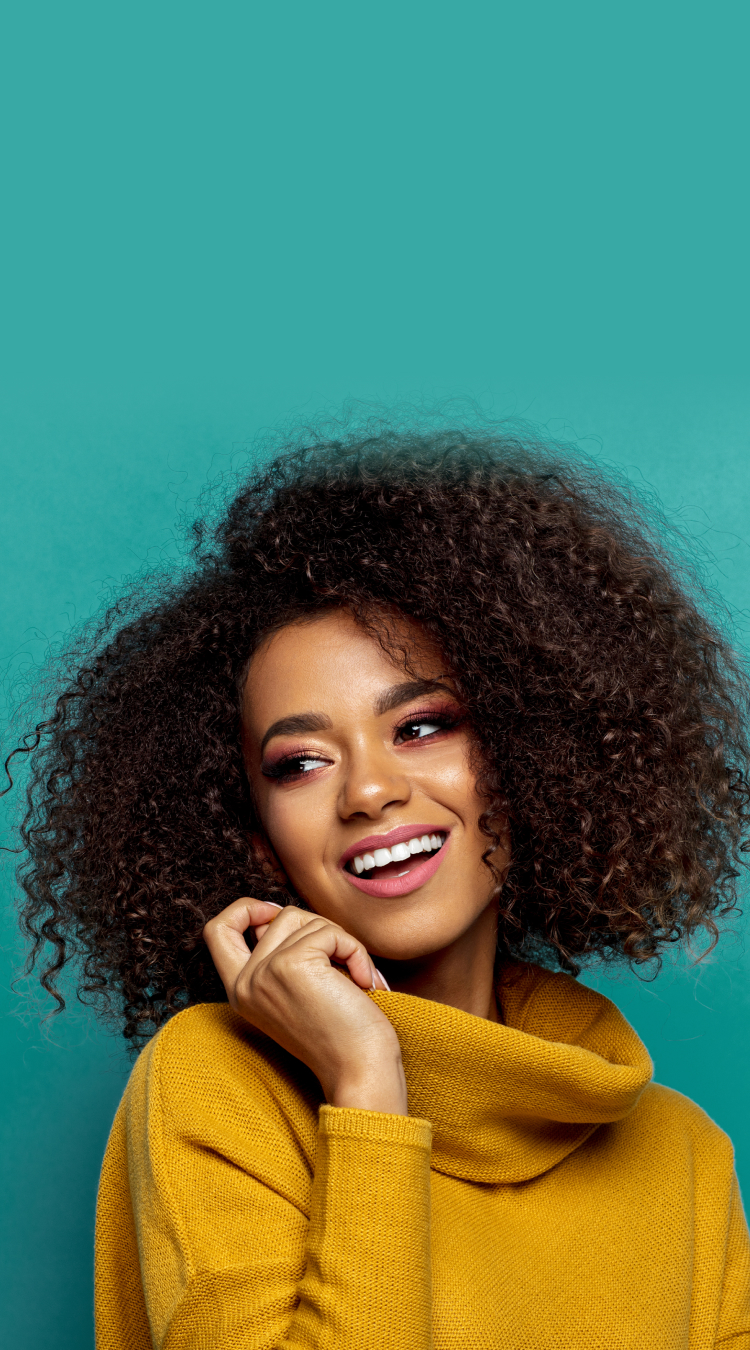
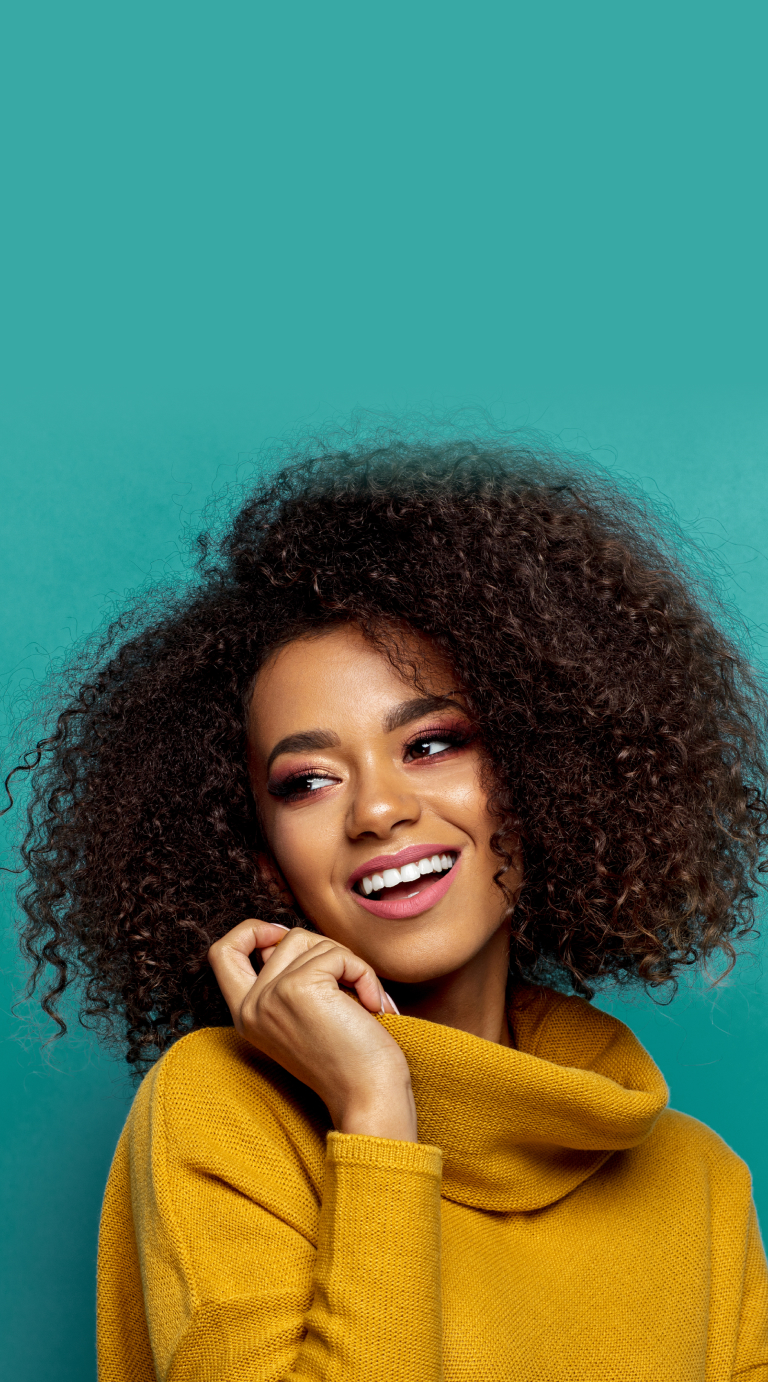
setup image sizes and fields for hero slider

diff --git a/css/app.css b/css/app.css
@@ -1258,16 +1258,16 @@ select{
   margin-bottom:calc(0.5rem * var(--tw-space-y-reverse))
 }
 
-.space-x-4 > :not([hidden]) ~ :not([hidden]){
-  --tw-space-x-reverse:0;
-  margin-right:calc(1rem * var(--tw-space-x-reverse));
-  margin-left:calc(1rem * calc(1 - var(--tw-space-x-reverse)))
-}
-
 .space-y-4 > :not([hidden]) ~ :not([hidden]){
   --tw-space-y-reverse:0;
   margin-top:calc(1rem * calc(1 - var(--tw-space-y-reverse)));
   margin-bottom:calc(1rem * var(--tw-space-y-reverse))
+}
+
+.space-x-4 > :not([hidden]) ~ :not([hidden]){
+  --tw-space-x-reverse:0;
+  margin-right:calc(1rem * var(--tw-space-x-reverse));
+  margin-left:calc(1rem * calc(1 - var(--tw-space-x-reverse)))
 }
 
 .space-x-2 > :not([hidden]) ~ :not([hidden]){
@@ -1405,6 +1405,11 @@ select{
 .bg-\[\#52D3E5\]{
   --tw-bg-opacity:1;
   background-color:rgb(82 211 229 / var(--tw-bg-opacity))
+}
+
+.bg-red-orange{
+  --tw-bg-opacity:1;
+  background-color:rgb(255 77 0 / var(--tw-bg-opacity))
 }
 
 .bg-watermark{
@@ -2182,11 +2187,6 @@ h2{
   z-index:0
 }
 
-.before\:mr-4::before{
-  content:var(--tw-content);
-  margin-right:1rem
-}
-
 .before\:mr-2::before{
   content:var(--tw-content);
   margin-right:0.5rem
@@ -2247,11 +2247,6 @@ h2{
 .before\:bg-no-repeat::before{
   content:var(--tw-content);
   background-repeat:no-repeat
-}
-
-.before\:font-bold::before{
-  content:var(--tw-content);
-  font-weight:700
 }
 
 .before\:text-secondary::before{

diff --git a/css/editor-style.css b/css/editor-style.css
@@ -615,16 +615,16 @@
   margin-bottom:calc(0.5rem * var(--tw-space-y-reverse))
 }
 
-.space-x-4 > :not([hidden]) ~ :not([hidden]){
-  --tw-space-x-reverse:0;
-  margin-right:calc(1rem * var(--tw-space-x-reverse));
-  margin-left:calc(1rem * calc(1 - var(--tw-space-x-reverse)))
-}
-
 .space-y-4 > :not([hidden]) ~ :not([hidden]){
   --tw-space-y-reverse:0;
   margin-top:calc(1rem * calc(1 - var(--tw-space-y-reverse)));
   margin-bottom:calc(1rem * var(--tw-space-y-reverse))
+}
+
+.space-x-4 > :not([hidden]) ~ :not([hidden]){
+  --tw-space-x-reverse:0;
+  margin-right:calc(1rem * var(--tw-space-x-reverse));
+  margin-left:calc(1rem * calc(1 - var(--tw-space-x-reverse)))
 }
 
 .space-x-2 > :not([hidden]) ~ :not([hidden]){
@@ -762,6 +762,11 @@
 .bg-\[\#52D3E5\]{
   --tw-bg-opacity:1;
   background-color:rgb(82 211 229 / var(--tw-bg-opacity))
+}
+
+.bg-red-orange{
+  --tw-bg-opacity:1;
+  background-color:rgb(255 77 0 / var(--tw-bg-opacity))
 }
 
 .bg-watermark{
@@ -1616,11 +1621,6 @@ body{
   z-index:0
 }
 
-.before\:mr-4::before{
-  content:var(--tw-content);
-  margin-right:1rem
-}
-
 .before\:mr-2::before{
   content:var(--tw-content);
   margin-right:0.5rem
@@ -1681,11 +1681,6 @@ body{
 .before\:bg-no-repeat::before{
   content:var(--tw-content);
   background-repeat:no-repeat
-}
-
-.before\:font-bold::before{
-  content:var(--tw-content);
-  font-weight:700
 }
 
 .before\:text-secondary::before{

diff --git a/template-parts/blocks/page-hero-slider.php b/template-parts/blocks/page-hero-slider.php
@@ -3,6 +3,7 @@
  * Page Hero Slider
  */
 ?>
+<?php if( have_rows('slides') ): ?>
 <div class="glide hero-slider z-10">
 	<div class="absolute w-full h-full top-0 left-0 right-0 mx-auto">
 		<div class="container relative mx-auto h-full">
@@ -15,7 +16,9 @@
 			</div>
 			<div class="absolute left-0 right-0 mx-auto w-full flex lg:hidden items-center justify-center bottom-12">
 				<div class="glide__bullets flex gap-4 z-20" data-glide-el="controls[nav]">
-					<button class="glide__bullet" data-glide-dir="=0"></button>
+					<?php while( have_rows('slides') ): the_row(); ?>
+						<button class="glide__bullet" data-glide-dir="=<?= get_row_index(); ?>"></button>
+					<?php endwhile; ?>
 					<button class="glide__bullet" data-glide-dir="=1"></button>
 					<button class="glide__bullet" data-glide-dir="=2"></button>
 				</div>
@@ -24,52 +27,63 @@
 	</div>
 	<div data-glide-el="track" class="glide__track">
 		<ul class="glide__slides">
-			<li class="glide__slide">
-				<div class="relative bg-transparent rounded-4xl lg:rounded-none z-20">
-					<div class="container px-8 lg:px-4 mx-auto relative z-20 h-hero min-h-[600px] flex md:items-center">
-						<div class="w-full md:w-7/12 xl:ml-[8.33%] py-12 lg:py-0 text-navy">
-							<h1 class="text-3xl lg:text-6xl font-bold">Lower premiums.<br/>Accesible benefits.<br/>Better health.</h1>
-							<p class="mt-6 lg:text-xl font-semibold">Provide the best health insurance for less.</p>
-							<a href="#" class="btn-lg bg-navy text-white mt-8">See our services</a>
+			<?php while( have_rows('slides') ): the_row(); 
+				$image_desktop = get_sub_field('desktop_image');
+				$image_mobile = get_sub_field('mobile_image');
+
+				$headline = get_sub_field('headline');
+				$copy = get_sub_field('copy');
+				$button = get_sub_field('button');
+				if( $button ) { 
+					$button_url = $button['url'];
+					$button_title = $button['title'];
+					$button_target = $button['target'] ? $button['target'] : '_self';
+				}
+
+				$custom = get_sub_field('custom_html');
+
+				if($image_desktop) {
+					$img_2x = $image_desktop['url'];
+					$img_1x = $image_desktop['sizes']['hero-image'];
+				}
+				if($image_mobile){
+					$img_mobile = $image_mobile['sizes']['large'];
+				}
+				?>
+				<li class="glide__slide">
+					<div class="relative bg-transparent rounded-4xl lg:rounded-none z-20">
+						<div class="container px-8 lg:px-4 mx-auto relative z-20 h-hero min-h-[600px] flex md:items-center">
+							<div class="w-full md:w-7/12 xl:ml-[8.33%] py-12 lg:py-0">
+								<?php if( $custom ): ?>
+									<?= $custom; ?>
+								<? else : ?>
+									<div class="text-navy">
+										<?php if($headline): ?>
+										<h2 class="text-3xl lg:text-6xl font-bold"><?= $headline; ?></h2>
+										<?php endif; ?>
+										<?php if($copy): ?>
+										<div class="space-y-4 mt-6 lg:text-xl font-semibold">
+											<?= $copy; ?>
+										</div>
+										<?php endif; ?>
+										<?php if($button): ?>
+											<a href="<?= esc_url($button_url); ?>" target="<?= esc_attr($button_target); ?>" class="btn-lg bg-navy text-white mt-8"><?= esc_html($button_title); ?></a>
+										<?php endif; ?>
+									</div>
+								<?php endif; ?>
+							</div>
+						</div>
+						<div class="w-full md:w-[77%] h-full absolute right-0 bottom-0 lg:top-0 z-10 rounded-4xl lg:rounded-r-none">
+							<picture>
+								<source srcset="<?= esc_url( $img_2x ); ?> 2x, <?= esc_url( $img_1x ); ?> 1x" media="(min-width: 768px)">
+								<source srcset="<?= esc_url( $img_mobile ); ?>">
+								<img src="<?= esc_url( $img_1x ); ?>" alt="" class="w-full h-full object-cover rounded-4xl lg:rounded-r-none">
+							</picture>
 						</div>
 					</div>
-					<div class="w-full md:w-[77%] h-full absolute right-0 bottom-0 lg:top-0 z-10 rounded-4xl lg:rounded-r-none">
-						<picture>
-							<source srcset="<?= get_template_directory_uri();?>/img/hero-placeholder-lg.jpg 2x, <?= get_template_directory_uri();?>/img/hero-placeholder.jpg 1x" media="(min-width: 768px)">
-							<source srcset="<?= get_template_directory_uri();?>/img/hero-placeholder-sm.jpg">
-							<img src="<?= get_template_directory_uri();?>/img/hero-placeholder.jpg" alt="" class="w-full h-full object-cover rounded-4xl lg:rounded-r-none">
-						</picture>
-					</div>
-				</div>
-			</li>
-			<li class="glide__slide">
-				<div class="relative bg-[#00C4B3] lg:bg-transparent rounded-4xl lg:rounded-none z-20">
-					<div class="container px-8 lg:px-4 mx-auto relative z-20 h-hero min-h-[400px] lg:min-h-[600px] flex lg:items-center">
-						<div class="w-full lg:w-7/12 lg:ml-[8.33%] pt-6 pb-12 lg:py-0">
-							<h1 class="text-3xl lg:text-6xl font-bold">Slide 2</h1>
-							<p class="mt-6 lg:text-xl font-semibold">Provide the best health insurance for less.</p>
-							<a href="#" class="btn-lg bg-dark text-white mt-8">See our services</a>
-						</div>
-					</div>
-					<div class="w-full lg:w-[77%] h-full absolute right-0 bottom-0 lg:top-0 z-10 rounded-4xl lg:rounded-r-none">
-						<img src="<?= get_template_directory_uri();?>/img/hero-placeholder.jpg" alt="" class="w-full h-full object-cover rounded-4xl lg:rounded-r-none">
-					</div>
-				</div>
-			</li>
-			<li class="glide__slide">
-				<div class="relative bg-[#52D3E5] lg:bg-transparent rounded-4xl lg:rounded-none z-20">
-					<div class="container px-8 lg:px-4 mx-auto relative z-20 h-hero min-h-[400px] lg:min-h-[600px] flex lg:items-center">
-						<div class="w-full lg:w-7/12 lg:ml-[8.33%] pt-6 pb-12 lg:py-0">
-							<h1 class="text-3xl lg:text-6xl font-bold">Slide 3</h1>
-							<p class="mt-6 lg:text-xl font-semibold">Provide the best health insurance for less.</p>
-							<a href="#" class="btn-lg bg-dark text-white mt-8">See our services</a>
-						</div>
-					</div>
-					<div class="w-full lg:w-[77%] h-full absolute right-0 bottom-0 lg:top-0 z-10 rounded-4xl lg:rounded-r-none">
-						<img src="<?= get_template_directory_uri();?>/img/hero-placeholder.jpg" alt="" class="w-full h-full object-cover rounded-4xl lg:rounded-r-none">
-					</div>
-				</div>
-			</li>
+				</li>
+			<?php endwhile; ?>
 		</ul>
 	</div>
 </div>
+<?php endif; ?>

diff --git a/template-parts/blocks/page-hero.php b/template-parts/blocks/page-hero.php
@@ -97,9 +97,11 @@
         bg-no-repeat
         <?php if( $bg_color == 'green' ) {
           echo 'bg-primary ';
-          } else {
+          } else if( $bg_color == 'teal' ) {
             echo 'bg-secondary ';
-          } 
+          } else {
+            echo 'bg-red-orange';
+          }
        ?>
         bottom-0 
         lg:top-12 

diff --git a/functions.php b/functions.php
@@ -152,3 +152,5 @@ function scanwp_font_size( $initArray ){
 	return $initArray;
 }
 add_filter( 'tiny_mce_before_init', 'scanwp_font_size' );
+
+add_image_size( 'hero-image', '1420' );
